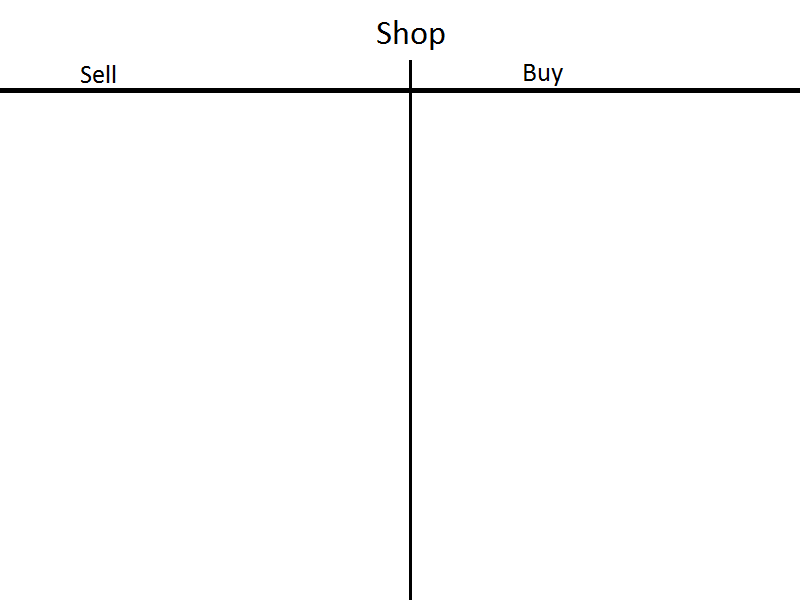
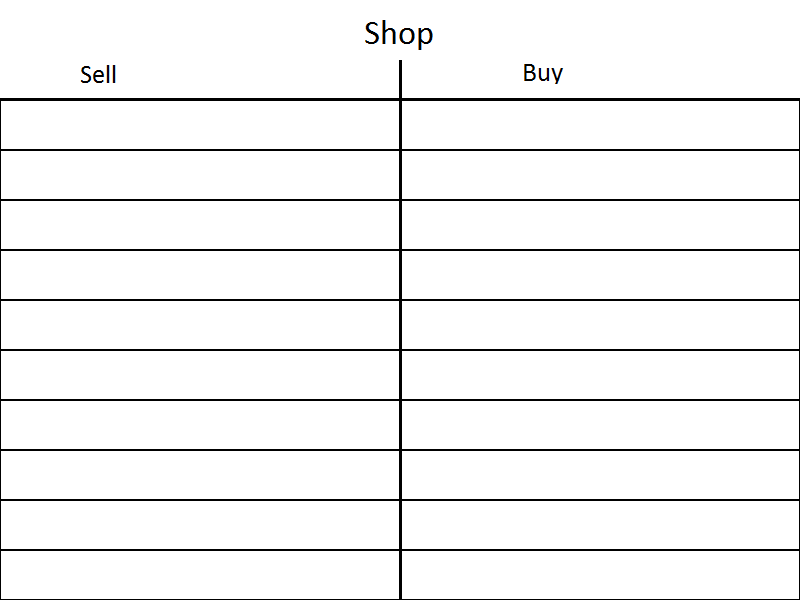
WARUM SIND TEXTE STANDARTMÄ?IG WEIß?!?!?!?!?!?!

Changed region(s): [[0.0, 0.03, 1.0, 1.0]]

diff --git a/Soulmate Remastered/Soulmate Remastered/Classes/GameObjectFolder/EntityFolder/NPCFolder/ShopFolder/Shop.cs b/Soulmate Remastered/Soulmate Remastered/Classes/GameObjectFolder/EntityFolder/NPCFolder/ShopFolder/Shop.cs
@@ -16,12 +16,49 @@ namespace Soulmate_Remastered.Classes.GameObjectFolder.EntityFolder.NPCFolder.Sh
         public static bool shopIsOpen { get; set; }
         List<Stack<AbstractItem>> sellableItems;
         List<Stack<AbstractItem>> buyableItems;
-        static Texture shopTexture = new Texture("Pictures/Entities/NPC/Shop/ShopInterface.png");
-        static Sprite sprite;
+        Texture shopTexture = new Texture("Pictures/Entities/NPC/Shop/ShopInterface.png");
+        Sprite sprite;
         const int collumCount = 2; //number of collums (sell, buy, maybe later more)
         const int lineCount = 10; //number of Items that can be shown at the same Time within one colum
         int selectedCollum = 0; //0 = sell Items / 1 = buy Items
         int selectedLine = 0;
+        int smallestDisplayedItem0 = 0;
+        int smallestDisplayedItem1 = 0;
+
+        Text[] sellableItemsText = new Text[lineCount];
+        Text[] buyableItemsText = new Text[lineCount];
+
+        int smallestDisplayedItem
+        {
+            get
+            {
+                switch (selectedCollum)
+                {
+                    case 0:
+                        return smallestDisplayedItem0;
+                    case 1:
+                        return smallestDisplayedItem1;
+                    default:
+                        return 0;
+                }
+            }
+
+            set
+            {
+                switch (selectedCollum)
+                {
+                    case 0:
+                        smallestDisplayedItem0 = value;
+                        break;
+                    case 1:
+                        smallestDisplayedItem1 = value;
+                        break;
+                    default:
+                        Console.WriteLine("ERROR!! MISSION ABORD MISION ABORED!!!!!!");
+                        break;
+                }
+            }
+        }
 
         public Shop(List<Stack<AbstractItem>> itemsToBuy)
         {
@@ -30,6 +67,20 @@ namespace Soulmate_Remastered.Classes.GameObjectFolder.EntityFolder.NPCFolder.Sh
 
             sellableItems = new List<Stack<AbstractItem>>();
             buyableItems = itemsToBuy;
+
+            for (int i = 0; i < sellableItemsText.Length; i++)
+            {
+                sellableItemsText[i] = new Text("", Game.font, 20);
+                sellableItemsText[i].Color = Color.Black;
+                sellableItemsText[i].Position = new Vector2f(sprite.Position.X + 20, sprite.Position.Y + 110 + i * 50);
+            }
+
+            for (int i = 0; i < buyableItemsText.Length; i++)
+            {
+                buyableItemsText[i] = new Text("", Game.font, 20);
+                buyableItemsText[i].Color = Color.Black;
+                buyableItemsText[i].Position = new Vector2f(sprite.Position.X + 420, sprite.Position.Y + 110 + i * 50);
+            }
 
             foreach (Stack<AbstractItem> item in ItemHandler.playerInventory.inventoryMatrix)
             {
@@ -60,23 +111,87 @@ namespace Soulmate_Remastered.Classes.GameObjectFolder.EntityFolder.NPCFolder.Sh
                 selectedCollum += 1;
                 selectedCollum %= collumCount;
             }
+
             if (!Game.isPressed && Keyboard.IsKeyPressed(Controls.Left))
             {
                 Game.isPressed = true;
                 selectedCollum += collumCount - 1;
                 selectedCollum %= collumCount;
             }
+
             if (!Game.isPressed && Keyboard.IsKeyPressed(Controls.Down))
             {
                 Game.isPressed = true;
-                selectedLine += 1;
-                selectedLine %= getListLength();
+                if (smallestDisplayedItem + selectedLine < getListLength())
+                {
+                    if (selectedLine < lineCount)
+                        selectedLine += 1;
+                    else
+                    {
+                        smallestDisplayedItem += 1;
+                    }
+                }
+                else
+                {
+                    selectedLine = 0;
+                    smallestDisplayedItem = 0;
+                }
             }
+
             if (!Game.isPressed && Keyboard.IsKeyPressed(Controls.Up))
             {
                 Game.isPressed = true;
-                selectedLine += getListLength() - 1;
-                selectedLine %= getListLength();
+
+                if (smallestDisplayedItem > 0)
+                {
+                    if (selectedLine > 0)
+                        selectedLine -= 1;
+                    else
+                    {
+                        smallestDisplayedItem -= 1;
+                    }
+                }
+                else
+                {
+                    selectedLine = lineCount;
+                    smallestDisplayedItem = evaluateIntSmallestDisplayedItem();
+                }
+            }
+
+            textUpdate();
+        }
+
+        private void textUpdate()
+        {
+            for (int i = 0; /*i < sellableItems.Count &&*/ i < sellableItemsText.Length; i++)
+            {
+                //sellableItemsText[i] = new Text(sellableItems[smallestDisplayedItem0 + i].Peek().type, Game.font, 20);
+                sellableItemsText[i].DisplayedString = "Test";
+            }
+
+            for (int i = 0; i < buyableItems.Count && i < buyableItemsText.Length; i++)
+            {
+                buyableItemsText[i].DisplayedString = buyableItems[smallestDisplayedItem0 + i].Peek().type;
+            }
+
+        }
+
+        private int evaluateIntSmallestDisplayedItem()
+        {
+            switch (selectedCollum)
+            {
+                case 0:
+                    if (smallestDisplayedItem0 - 10 >= 0)
+                        return smallestDisplayedItem0 - 10;
+                    else
+                        return 0;
+                case 1:
+                    if (smallestDisplayedItem1 - 10 >= 0)
+                        return smallestDisplayedItem1 - 10;
+                    else
+                        return 0;
+                default:
+                    return 0;
             }
         }
 
@@ -86,11 +201,19 @@ namespace Soulmate_Remastered.Classes.GameObjectFolder.EntityFolder.NPCFolder.Sh
             sprite = null;
         }
 
-        public static void draw(RenderWindow window)
+        public void draw(RenderWindow window)
         {
             if (sprite != null)
             {
                 window.Draw(sprite);
+
+                foreach (Text txt in sellableItemsText)
+                    if (txt != null)
+                        window.Draw(txt);
+
+                foreach (Text txt in buyableItemsText)
+                    if (txt != null)
+                        window.Draw(txt);
             }
         }
     }

diff --git a/Soulmate Remastered/Soulmate Remastered/Classes/GameObjectFolder/EntityFolder/NPCFolder/Shopkeeper.cs b/Soulmate Remastered/Soulmate Remastered/Classes/GameObjectFolder/EntityFolder/NPCFolder/Shopkeeper.cs
@@ -2,6 +2,7 @@
 using SFML.Window;
 using Soulmate_Remastered.Classes.GameObjectFolder.EntityFolder.NPCFolder.ShopFolder;
 using Soulmate_Remastered.Classes.GameObjectFolder.ItemFolder;
+using Soulmate_Remastered.Classes.GameObjectFolder.ItemFolder.EquipmentFolder;
 using System;
 using System.Collections.Generic;
 using System.Linq;
@@ -34,6 +35,7 @@ namespace Soulmate_Remastered.Classes.GameObjectFolder.EntityFolder.NPCFolder
             interacted = false;
             NPCHandler.shop = shop;
             NPCHandler.add(this);
+            addItemForSell(new Sword(10, 10, 10), 10);
         }
 
         public void addItemForSell(AbstractItem item, int count)
@@ -57,6 +59,7 @@ namespace Soulmate_Remastered.Classes.GameObjectFolder.EntityFolder.NPCFolder
         {
             interacted = true;
             shop = new Shop(itemsForSell);
+            NPCHandler.shop = shop;
         }
 
         public override void stopIteraction()

diff --git a/Soulmate Remastered/Soulmate Remastered/Classes/GameStatesFolder/AbstractGamePlay.cs b/Soulmate Remastered/Soulmate Remastered/Classes/GameStatesFolder/AbstractGamePlay.cs
@@ -164,7 +164,7 @@ namespace Soulmate_Remastered.Classes.GameStatesFolder
             if (Shop.shopIsOpen)
             {
                 window.SetView(viewInventory);
-                Shop.draw(window);
+                NPCHandler.shop.draw(window);
             }
 
             if (inGameMenu.inGameMenuOpen)

diff --git a/Soulmate Remastered/Soulmate Remastered/Classes/GameObjectFolder/ItemFolder/Inventory.cs b/Soulmate Remastered/Soulmate Remastered/Classes/GameObjectFolder/ItemFolder/Inventory.cs
@@ -106,7 +106,7 @@ namespace Soulmate_Remastered.Classes.ItemFolder
             }
         }
 
-        RenderWindow window = AbstractGame.window;
+        RenderWindow window = Game.window;
 
         public static bool inventoryOpen { get; set; }
 
